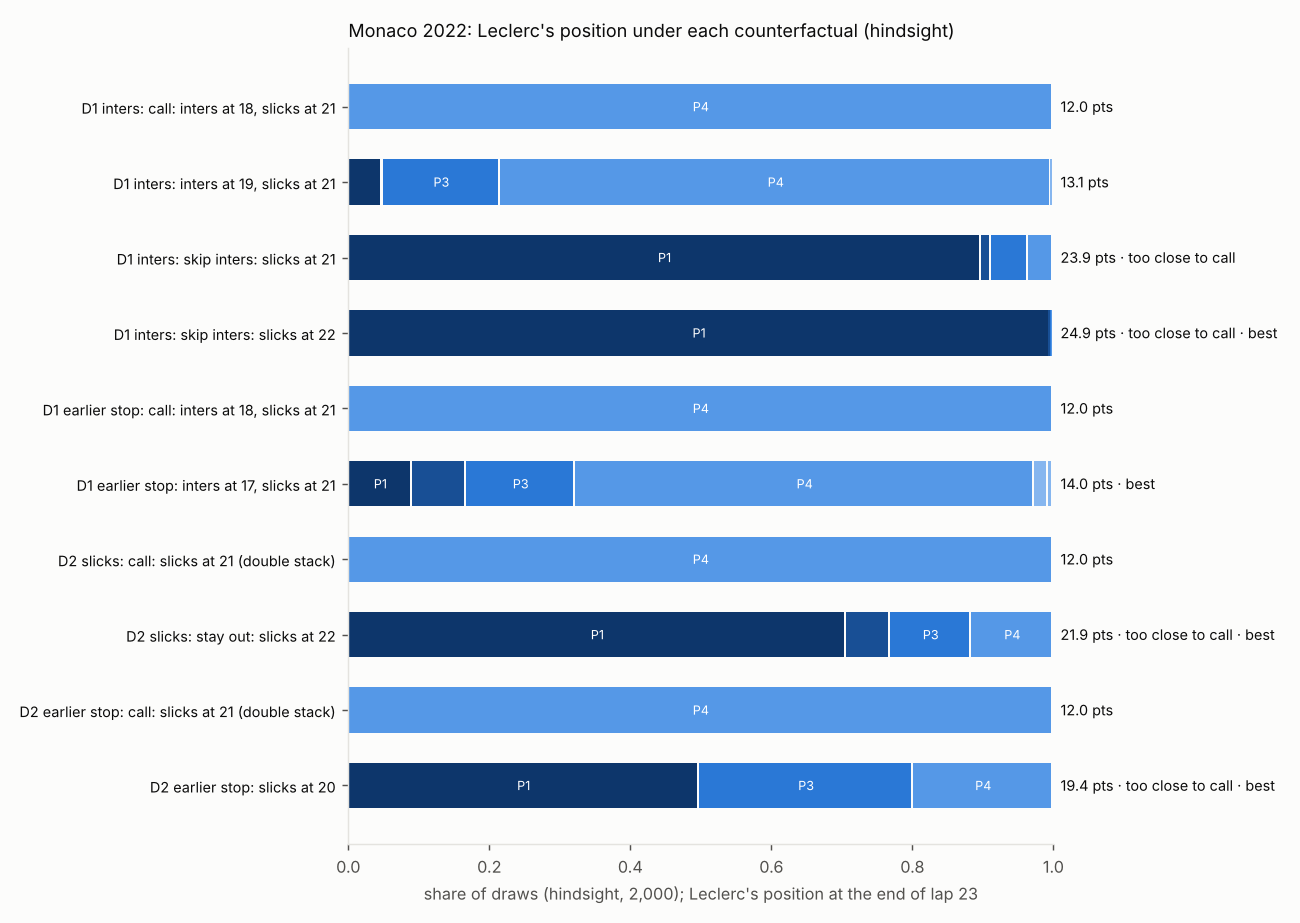
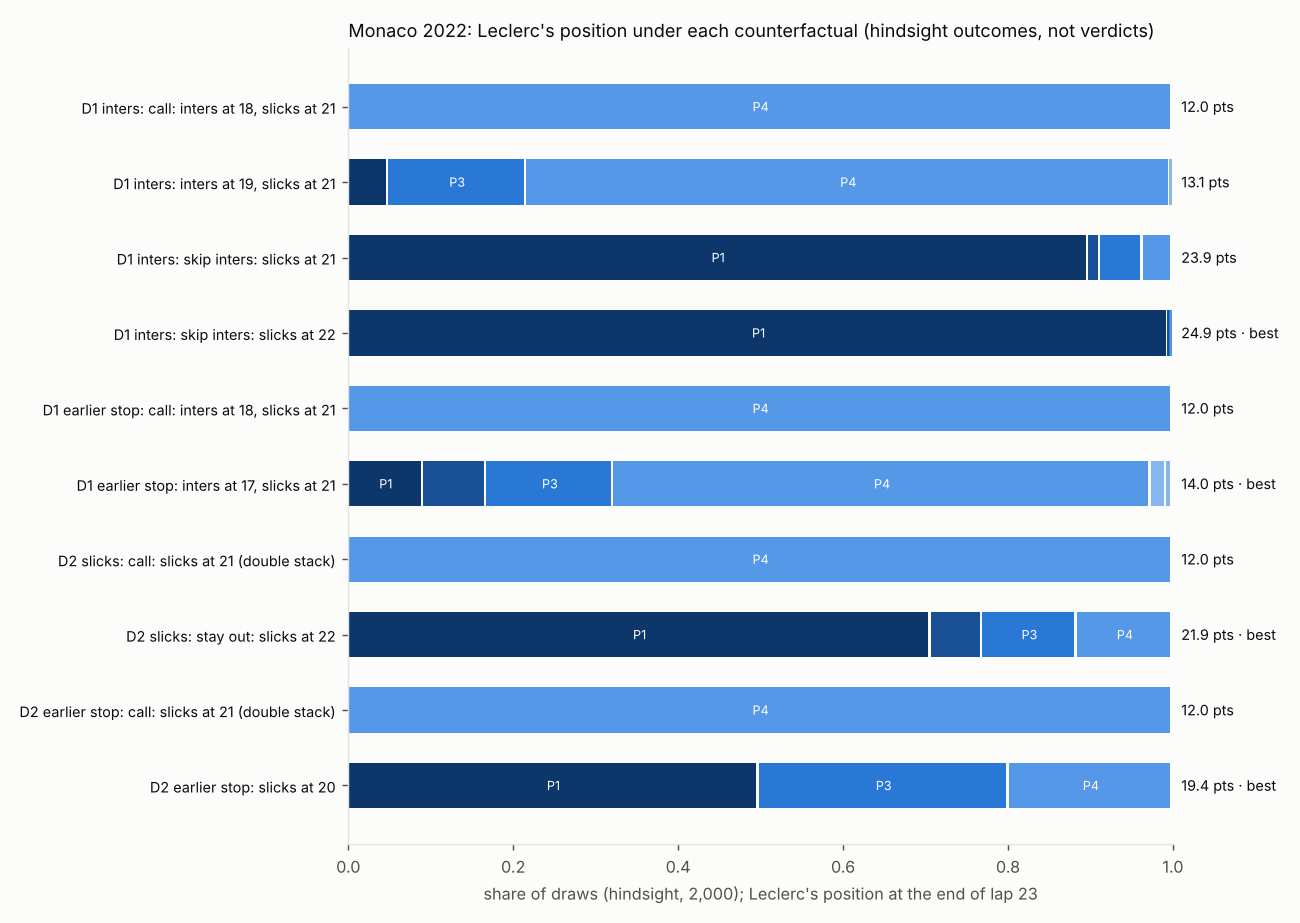
Monaco: not assessable at the cutoff (D1, D2); hindsight outcomes reported separately; tick Monaco; Phase 6 complete
Decision-lap verdicts: no usable slick pace in the public timing data at
either cutoff. Exploratory lap-20 reading (one lap, two cars) labelled, no
verdict. Hindsight outcomes (not verdicts): skipping inters or staying out
to 22 would likely have kept Leclerc P1; the queue cost at most one place,
within the noise. Figures: crossover gap timeline, positions per
counterfactual.

Claude-Session: https://claude.ai/code/session_01CBis2f1CdaQQv1SMU3yN4Y

diff --git a/src/f1strat/monaco.py b/src/f1strat/monaco.py
@@ -597,7 +597,7 @@ def plot_gap_timeline(raw: pd.DataFrame, race: pd.DataFrame, path) -> object:
             c = g.at[L, "c"]
             if isinstance(c, str):
                 ax.plot(L, gap.at[L, d], marks.get(c, "o"), color=col, ms=5, mec=SURFACE)
-            if bool(g.at[L, "in_lap"]):
+            if bool(g.at[L, "in_lap"]) and L < 27:   # stops, not the red-flag pit entry
                 ax.annotate(f"{d} in", (L, gap.at[L, d]), textcoords="offset points",
                             xytext=(4, 6), fontsize=7, color=col)
     ax.set_ylim(28, -2)
@@ -652,7 +652,8 @@ def plot_positions(out: dict, path) -> object:
     ax.set_xlim(0, 1)
     ax.set_xlabel("share of draws (hindsight, 2,000); Leclerc's position at the end of lap 23",
                   color=INK2, fontsize=9)
-    ax.set_title("Monaco 2022: Leclerc's position under each counterfactual (hindsight)",
+    ax.set_title("Monaco 2022: Leclerc's position under each counterfactual "
+                 "(hindsight outcomes, not verdicts)",
                  fontsize=10, color=INK, loc="left")
     fig.tight_layout()
     fig.savefig(path, dpi=130)

diff --git a/docs/case_studies.md b/docs/case_studies.md
@@ -1780,3 +1780,131 @@ as approved in Part A:
   time (as in every case study).
 - **Yellow-flag laps** (code 2) are kept as eligible: the lap-18 and lap-21
   yellows affected nearly every car.
+
+### Results
+
+Run: `uv run python -m f1strat.monaco verdict`. Outputs:
+`reports/figures/case_monaco_results.json` (every number below), figures
+`case_monaco_gaps.png` (the crossover) and `case_monaco_positions.png`
+(Leclerc's position under each counterfactual, hindsight).
+
+![Ferrari and Red Bull through the crossover](../reports/figures/case_monaco_gaps.png)
+
+### Decision-lap verdicts (the committed rule)
+
+**D1 (inters at 18) and D2 (slicks at 21 behind Sainz): not assessable at
+the cutoff.** The same holds for each earlier-stop comparison at its own
+cutoff (16 and 19).
+- **The public timing data had no usable slick pace when Ferrari decided.**
+- **Cutoffs 16 and 17:**
+  - no compound-lap cell on hards has 2 or more cars;
+  - the only car on hards, Latifi (from lap 4), ran nothing else, so his car
+    pace and the hard pace cannot be separated.
+- **Cutoff 19:** still no identified hard cell. The first car to switch to
+  hards (Schumacher) had a single eligible lap, lap 19.
+- **Cutoff 20:** one identified hard lap (lap 20: Schumacher and Albon). The
+  pre-registered trend needs 2.
+- Every plan ends the cycle on hards, so every plan needs that pace, the call
+  included.
+
+This is the same kind of answer as Silverstone's "inconclusive": the method
+cannot judge the call from this dataset. It is not a judgement that the call
+was right or wrong.
+
+**Exploratory, not a verdict: the cutoff-20 reading on one lap of two cars.**
+- **Setup:** holding lap 20's hard cell constant (persistence, instead of
+  the committed trend).
+  - That cell is Schumacher (91.4 s) and Albon (98.9 s) on lap 20.
+  - It puts hards **3.8 s/lap slower than inters** on lap 20.
+  - The rest of the reading inherits that figure. It is single-lap and
+    two-car (not Latifi: his laps cannot identify slick pace).
+- **On that basis:**
+  - staying out to 22 scores 17.7 points against 13.7 for the double stack
+    at 21 (loss 4.0, 10–90%: 0 to 13);
+  - the call is level or ahead in 33% of draws.
+  - The numbers would read "marginal". **No verdict is drawn from it.** The
+    point is only this: what the public data showed at lap 20 was that
+    slicks were still slower, not that it was time to switch.
+
+### Hindsight outcomes: what would have happened (not verdicts)
+
+Fit on laps 3–26, actual lap times where a car's laps are unchanged, D =
+5.5 s; 2,000 measurement draws; the best alternative was chosen on a separate
+1,000. Lap-time noise σ = 1.43 s. These are outcomes, reported with the
+bands' numbers; they are not decision-lap verdicts.
+
+| Comparison | Best alternative (hindsight) | Leclerc: call → best (points) | Mean loss (10–90%) | Call level or ahead | Bands' reading | Too close to call? |
+|---|---|---|---|---|---|---|
+| D1 at 17: inters at 18 | **skip inters: slicks at 22** | 12.0 (P4) → 24.9 (P1 in 99%) | 12.9 (13 to 13) | 0% | outside range | no (P1, 14.3 s ahead of the next car) |
+| D1 at 16: inters at 18 vs 17 | inters at 17 | 12.0 → 14.0 (P1 9%, P3 15%, P4 65%) | 2.0 (0 to 6) | 68% | marginal | no |
+| D2 at 20: stack at 21 | **stay out: slicks at 22** | 12.0 → 21.9 (P1 71%, P3 12%, P4 12%) | 9.9 (0 to 13) | 12% | outside range | no (P1 in most draws; 3.7 s to the car behind) |
+| D2 at 19: stack at 21 vs slicks at 20 | slicks at 20 | 12.0 → 19.4 (P1 50%, P3 30%, P4 20%) | 7.4 (0 to 13) | 20% | outside range | no |
+
+Every D1 alternative at cutoff 17, in hindsight:
+
+| Plan | Points | Position |
+|---|---|---|
+| Call: inters at 18, slicks at 21 (as run) | 12.0 | P4 |
+| Inters at 19, slicks at 21 | 13.1 | P4 78%, P3 17%, P1 5% |
+| Skip inters: slicks at 21 (Sainz's lap; Leclerc ahead, so Sainz queues) | 23.9 | P1 90% |
+| Skip inters: slicks at 22 | 24.9 | P1 99% |
+
+- **What the hindsight outcomes say:**
+  - Leclerc's track position was lost at lap 18. Pérez's lap-16 inters
+    undercut and Sainz's wets-to-slicks run both got ahead of him.
+  - Staying on wets with Sainz and going straight to slicks would have kept
+    him P1 in about 9 of 10 replays.
+  - At lap 21, staying out one more lap (to 22) would have put him ahead of
+    the Red Bulls' lap-22 stops in about 7 of 10.
+- **Robust to the pace forecast:** holding the last value instead of the
+  trend changes no reading (loss 12.9, 2.0, 10.0, 7.5).
+  - The hindsight fit has no car on wets after lap 20. The wets laps 21–22
+    that the skip-inters plans need are forecast, and flagged.
+- **Too close to call:** none of the best alternatives rests on a gap below σ
+  (1.43 s) once a P1 draw counts as having no car ahead (corrected before
+  this write-up; the first run's flags were wrong).
+- **The call in hindsight is the actual race:** P4, 1.15 s behind
+  Verstappen at the end of lap 23. It has no rebuilt laps, so no modelled
+  noise.
+
+**Diagnostic: what the double stack cost.**
+- **In hindsight:** without the 2.45 s queue, Leclerc is ahead of Verstappen
+  at the end of lap 23: P3, +3 points. But the gap to Verstappen behind is
+  1.30 s, **below the 1.43 s noise, so by the amended rule P3 is too close to
+  call.**
+- **In the exploratory cutoff-20 reading** (the single lap of two cars
+  above): +1.3 points.
+- So the queue plausibly cost one place (P3 → P4), but within the noise.
+  Most of the loss came from the stop timing, not the queue.
+
+![Leclerc's position under each counterfactual](../reports/figures/case_monaco_positions.png)
+
+### Monaco verdict
+
+**D1 (inters at 18) and D2 (double stack at 21): not assessable at the
+cutoff.**
+- Under the committed rule, the public timing data had no usable slick pace
+  at either decision. The one exploratory reading at lap 20 (one lap, two
+  cars) said slicks were still slower.
+- **In hindsight** (outcomes, not verdicts), the stop timing cost Leclerc the
+  win:
+  - skipping inters, or staying out to lap 22 at the second decision, would
+    likely have kept him P1 (22–25 points against 12);
+  - the double stack's queue cost at most one more place, within the noise.
+
+**Limits specific to Monaco.**
+- **Ferrari's pit wall had information this dataset lacks:** track and
+  weather sensors, live sector and mini-sector times, tyre temperatures, and
+  driver feedback (Sainz asked for slicks). "Not assessable" is about the
+  public timing data used here. It does not say whether the right call was
+  knowable at the time.
+- **No wet or crossover pace model:** compound pace comes from other cars on
+  that compound that lap. Wets after lap 20 are forecast even in hindsight.
+- **No passing modelled** (2022 had no top-8 pass outside the stops). An
+  alternative that puts Leclerc ahead on a slower compound assumes he holds
+  the place. Monaco makes that likely, but it is not certain.
+- **Rivals keep their actual stop laps.** If Leclerc had stayed out, Red
+  Bull's lap-22 stop could have changed.
+- **The red flag's free tyre change** erased tyre differences after lap 29,
+  which is why the lap-23 order is taken as final.
+- **The no-queue result** rests on a 1.30 s gap, inside the lap-time noise.

diff --git a/CLAUDE.md b/CLAUDE.md
@@ -11,7 +11,7 @@ For each, the question is: using only what the pit wall knew at the decision lap
 was the call within the range of good options?
 
 ## Current phase
-**Phase 6: Case studies.** Phases 0–5 are complete. Model: `docs/model.md`; simulator: `docs/simulator.md`; validation and the Phase 6 dress rehearsal: `docs/validation.md`. The simulator reads the committed thinned posterior `models/deg_full_2022_thin.nc`; the full posterior is gitignored (rebuild: `uv run python -m f1strat.deg_model full`, ~40 min, also rewrites the thinned file). Case-study fits go through `f1strat.rehearsal` (cutoff data, practice long runs, leakage-free parameters, divergence-free fits). See `ROADMAP.md` for the full plan and checkpoints.
+**Phase 7: Ship.** Phases 0–6 are complete (case-study verdicts and their limits: `docs/case_studies.md`). Model: `docs/model.md`; simulator: `docs/simulator.md`; validation and the Phase 6 dress rehearsal: `docs/validation.md`. The simulator reads the committed thinned posterior `models/deg_full_2022_thin.nc`; the full posterior is gitignored (rebuild: `uv run python -m f1strat.deg_model full`, ~40 min, also rewrites the thinned file). Case-study fits go through `f1strat.rehearsal` (cutoff data, practice long runs, leakage-free parameters, divergence-free fits). See `ROADMAP.md` for the full plan and checkpoints.
 
 ## Repo layout
 ```

diff --git a/ROADMAP.md b/ROADMAP.md
@@ -376,7 +376,17 @@ Open issues for Phase 6:
   cold-tyre penalty and green-flag pass rates. Silverstone had 9 passes in
   the first three restart laps against 3.1 simulated. State it for any
   verdict that turns on a restart.
-- [ ] Monaco (wet crossover; state limitations)
+- [x] Monaco (`docs/case_studies.md`; track-position accounting,
+  `f1strat.monaco`): **D1 (inters at 18) and D2 (double stack at 21): not
+  assessable at the cutoff.**
+  - The public timing data had no usable slick pace at either decision (no
+    hard cell identified by 2+ cars on 2+ laps).
+  - Exploratory lap-20 reading (one lap, two cars): slicks still 3.8 s/lap
+    slower than inters. No verdict drawn.
+  - Hindsight outcomes, not verdicts: skipping inters, or staying out to 22,
+    would likely have kept Leclerc P1 (22–25 points against 12). The queue
+    cost at most one place, within the noise.
+  - Ferrari's pit wall had more information than this dataset.
 
 **Done when:** each case study has a verdict on whether the call was within the range of good options, backed by leakage-free simulations, or a documented reason none is supported.
 
